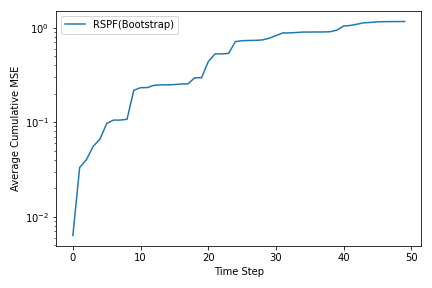
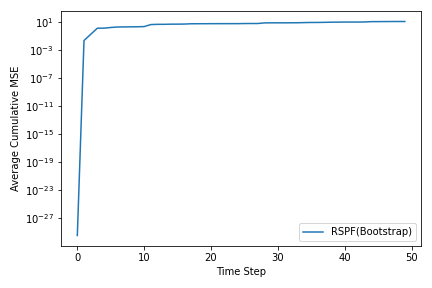
variance update

diff --git a/rspf.py b/rspf.py
@@ -3,7 +3,7 @@ from matplotlib import pyplot as plt
 from scipy import stats
 
 class RSPF: 
-    def __init__(self, tran_matrix, A, B, C, D, mu_u=0., sigma_u=0.1, mu_v=0., sigma_v=0.1, beta=np.array(1)): 
+    def __init__(self, tran_matrix, A, B, C, D, mu_u=0., sigma_u=np.sqrt(0.1), mu_v=0., sigma_v=np.sqrt(0.1), beta=np.array(1)): 
         self.mat_P = tran_matrix
         self.co_A = A
         self.co_B = B
@@ -16,7 +16,7 @@ class RSPF:
         self.beta = beta.reshape(1, -1)
         
     def initial(self, size=1): 
-        return np.random.choice([i for i in range(8)], replace=True, size=size), np.random.uniform(-0.5, 0.5, size=size)
+        return np.random.choice([i for i in range(int(8))], replace=True, size=size), np.random.uniform(-0.5, 0.5, size=size)
         
     def Markov_dynamic(self, m_p, size=1): 
 #         data size = m_p.size
@@ -127,7 +127,7 @@ def generate_data(T, model, size=1, dyn=0):
 def weights_bootstrap(model, w_list, m_list, s_list, o): 
     lw = np.log(w_list)
     for i in range(len(s_list)): 
-        lw[i] += stats.norm(loc=model.co_C[m_list[i]] * np.sqrt(np.abs(s_list[i])) + model.co_D[m_list[i]], scale=0.1).logpdf(o)
+        lw[i] += stats.norm(loc=model.co_C[m_list[i]] * np.sqrt(np.abs(s_list[i])) + model.co_D[m_list[i]], scale=np.sqrt(0.1)).logpdf(o)
 #         w += 10**(-300)
     w = np.exp(lw - lw.max())
     return w/w.sum()
@@ -140,7 +140,7 @@ def weights_proposal(model, w_list, m_list, s_list, o, switch):
     else:
         lp = np.log([1/len(model.co_A)]*len(w_list))
     for i in range(len(s_list)): 
-        lw[i] += stats.norm(loc=model.co_C[m_list[-1, i]] * np.sqrt(np.abs(s_list[i])) + model.co_D[m_list[-1, i]], scale=0.1).logpdf(o) + lp[i] - np.log((1/len(model.co_A)))
+        lw[i] += stats.norm(loc=model.co_C[m_list[-1, i]] * np.sqrt(np.abs(s_list[i])) + model.co_D[m_list[-1, i]], scale=np.sqrt(0.1)).logpdf(o) + lp[i] - np.log((1/len(model.co_A)))
 #         w += 10**(-300)
 #         print(lw[i])
     w = np.exp(lw - lw.max())

diff --git a/main_Polyaurn.py b/main_Polyaurn.py
@@ -25,7 +25,7 @@ mse_SMC = np.zeros((run, T))
 msecum_SMC = np.zeros((run, T))
 
 for i in range(run): 
-    m_list, s_list, w_list = filtering(T, rspf, o_SMC[i, :], N_p=N_p, dyn=1)
+    m_list, s_list, w_list = filtering(T, rspf, m_SMC[i, 0], s_SMC[i, 0], o_SMC[i, :], N_p=N_p, dyn=1)
     mlist_SMC[i, :] = m_list
     slist_SMC[i, :] = s_list
     wlist_SMC[i, :] = w_list

diff --git a/main_Markovian.py b/main_Markovian.py
@@ -7,7 +7,7 @@ T = 50
 N_p = 2000
 
 run = 1
-m_SMC = np.zeros((run, T))
+m_SMC = np.zeros((run, T), dtype=int)
 s_SMC = np.zeros((run, T))
 o_SMC = np.zeros((run, T))
 
